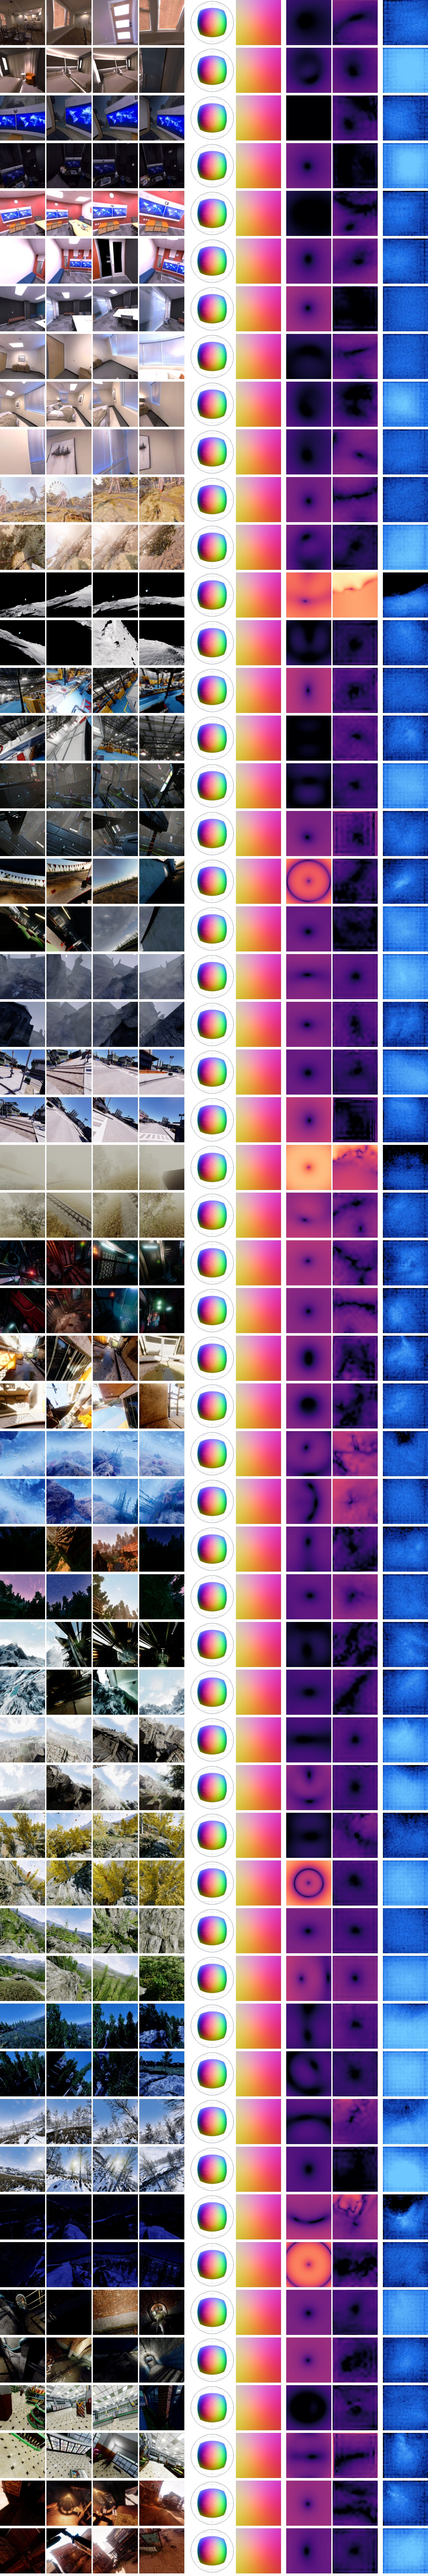
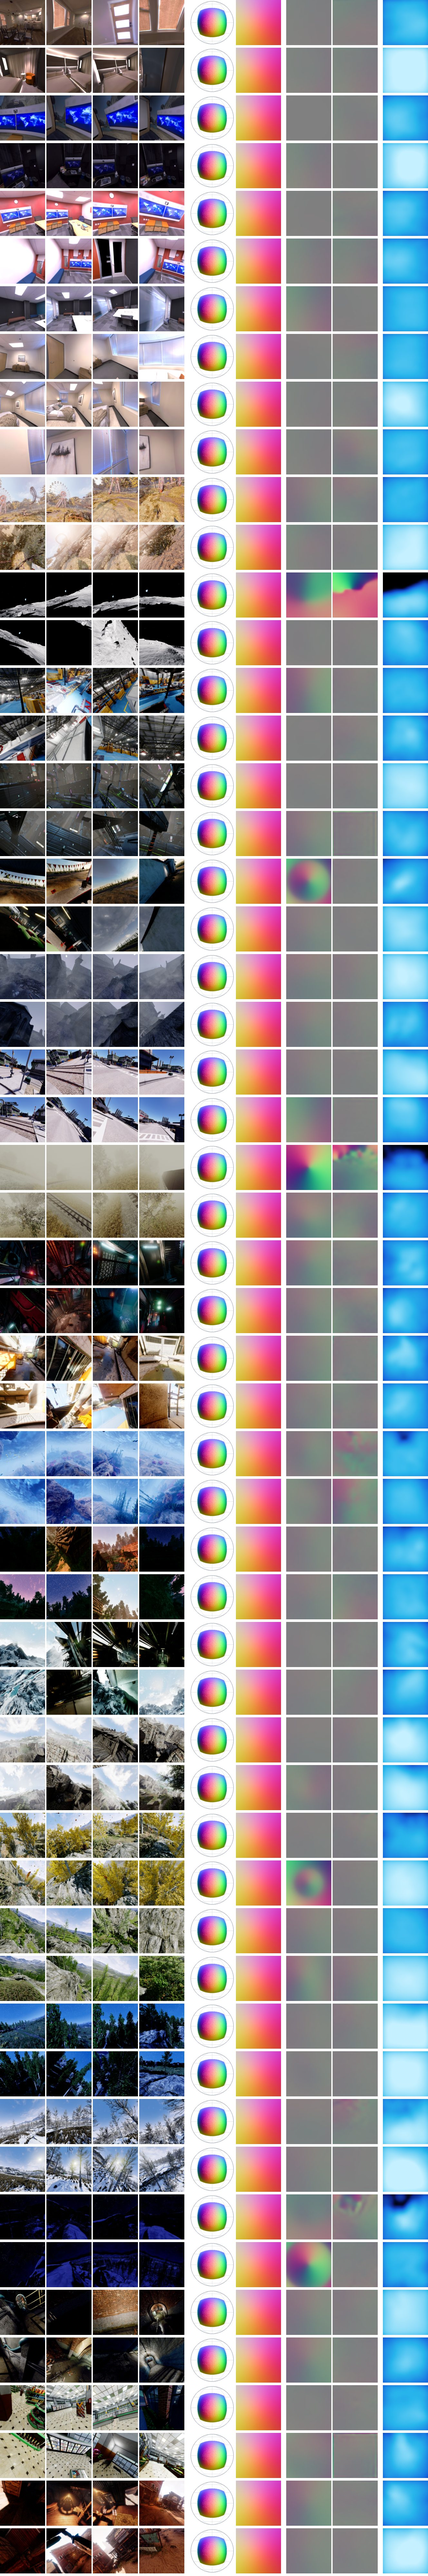
Results in the paper's style (error direction/magnitude wheel, effective support) and sort options
- Error maps use the paper's visualization (hue: direction, saturation:
  magnitude) and the support column shows effective support, with the paper's
  legend; the separate magnitude/direction toggle is gone.
- Explorer can sort by sequence name, RayCal error, best-baseline error or the
  improvement over the best baseline.

Changed region(s): [[0.6483, 0.0, 1.0, 1.0]]

diff --git a/index.html b/index.html
@@ -60,25 +60,29 @@
 
   <section id="explorer">
     <h2>Results Explorer</h2>
-    <p class="lede">Every sequence of the benchmark, with the same results as the paper's tables. Each row shows four input frames, the ground-truth ray sphere and ray map, the angular error of the best baseline on that sequence and of RayCal (after one global rotation), and RayCal's support map.</p>
+    <p class="lede">Every sequence of the benchmark, with the same results as the paper's tables. Each row shows four input frames, the ground-truth ray sphere and ray map, the angular error of the best baseline on that sequence and of RayCal (after one global rotation), and RayCal's effective support.</p>
     <div class="controls" role="group" aria-label="Explorer controls">
       <div class="seg" role="tablist" aria-label="Benchmark">
         <button role="tab" data-kind="main" aria-selected="true">Main benchmark</button>
         <button role="tab" data-kind="dist" aria-selected="false">Distortion study</button>
       </div>
       <label>Set <select id="group"></select></label>
-      <label>Error <select id="style"><option value="mag">Magnitude</option><option value="dir">Direction</option></select></label>
+      <label>Sort <select id="sort">
+        <option value="name">Sequence name</option>
+        <option value="ours-asc">RayCal error, low to high</option>
+        <option value="ours-desc">RayCal error, high to low</option>
+        <option value="base-desc">Best baseline error, high to low</option>
+        <option value="gain-desc">Improvement over best baseline</option>
+      </select></label>
       <label class="grow">Find <input id="find" type="search" placeholder="sequence name" autocomplete="off"></label>
       <span id="count" class="count" aria-live="polite"></span>
     </div>
     <div class="legend">
-      <span class="key"><span class="ramp mag"></span><span class="mono">0.01&deg; &hellip; 10&deg;</span> angular error (log)</span>
-      <span class="key dirkey" hidden><img src="assets/results/error-legend.png" alt="Error direction legend" width="40" height="40"> error direction (hue) and size</span>
-      <span class="key"><span class="ramp sup"></span> support: observations retained per 16&times;16-pixel cell (log)</span>
-      <span class="key"><span class="sw miss"></span> outside the valid image or no estimate</span>
+      <span class="key"><img src="assets/figures/qualitative-legend.jpg" alt="Legend: error wheel (hue is the error direction, saturation its magnitude, rings at 0.25, 1, 3 and 10 degrees) and effective support bar (0 to at least 1000)" height="70"></span>
+      <span class="key">Error: hue gives the direction, saturation the magnitude (rings at 0.25&deg;, 1&deg;, 3&deg;, 10&deg;). Support: effective support, observations per control point (log).</span>
     </div>
     <div class="colhead" aria-hidden="true">
-      <span style="flex:4">Input frames</span><span style="flex:2">Ground truth (sphere, map)</span><span style="flex:2">Angular error: best baseline, RayCal</span><span style="flex:1">RayCal support</span>
+      <span style="flex:4">Input frames</span><span style="flex:2">Ground truth (sphere, map)</span><span style="flex:2">Angular error: best baseline, RayCal</span><span style="flex:1">RayCal effective support</span>
     </div>
     <div id="rows" class="rows"></div>
     <p id="more" class="more" hidden><button id="showmore" class="btn">Show more</button></p>

diff --git a/assets/js/explorer.js b/assets/js/explorer.js
@@ -1,4 +1,4 @@
-// Results explorer: one JPEG sprite per sequence group (assets/results/<group>.jpg, -dir.jpg for the direction style)
+// Results explorer: one JPEG sprite per sequence group (assets/results/<group>.jpg, the paper's error and support style)
 // and assets/results/meta.json with each row's offset and scores. Rows are drawn as scaled background windows.
 (function () {
   'use strict';
@@ -6,12 +6,11 @@
   const PAGE = 40;            // rows rendered per batch
   const GAP = 4, EXTRA = 3 * GAP, N_EXTRA = 3;   // panel gaps used by tools/build_results.py
   const groupSel = document.getElementById('group');
-  const styleSel = document.getElementById('style');
+  const sortSel = document.getElementById('sort');
   const find = document.getElementById('find');
   const rowsEl = document.getElementById('rows');
   const countEl = document.getElementById('count');
   const moreEl = document.getElementById('more');
-  const dirKey = document.querySelector('.dirkey');
   let meta = [], kind = 'main', shown = 0, current = [];
 
   const fmt = v => (v === null || v === undefined || isNaN(v)) ? '–' : (v >= 10 ? v.toFixed(1) : v >= 1 ? v.toFixed(2) : v.toFixed(3));
@@ -47,7 +46,7 @@
       const wt = stripWidth(r.widths), ph = g.ph;
       s.className = 'strip';
       s.style.aspectRatio = `${wt} / ${ph}`;
-      const file = BASE + g.id + (styleSel.value === 'dir' ? '-dir' : '') + '.jpg';
+      const file = BASE + g.id + '.jpg';
       s.style.backgroundImage = `url("${file}")`;
       s.style.backgroundSize = `${(g.width / wt) * 100}% auto`;
       const span = g.height - ph;
@@ -59,12 +58,28 @@
     return d;
   }
 
+  // Missing scores sort last; the improvement is the best baseline's Mean over ours (no baseline output counts as largest).
+  const ours = r => (r.ours && r.ours[0] != null) ? r.ours[0] : Infinity;
+  const base = r => (r.best && r.best[1] != null) ? r.best[1] : Infinity;
+  const gain = r => (ours(r) === Infinity) ? -Infinity : base(r) / ours(r);
+  function sortRows(rows) {
+    const by = {
+      'name': (a, b) => a.label.localeCompare(b.label),
+      'ours-asc': (a, b) => ours(a) - ours(b),
+      'ours-desc': (a, b) => (ours(b) === Infinity ? -1 : ours(a) === Infinity ? 1 : ours(b) - ours(a)),
+      'base-desc': (a, b) => base(b) - base(a),
+      'gain-desc': (a, b) => gain(b) - gain(a),
+    }[sortSel.value];
+    rows.sort((a, b) => by(a, b) || a.label.localeCompare(b.label));
+  }
+
   function render(reset) {
     const g = meta.find(x => x.id === groupSel.value);
     if (!g) return;
     if (reset) {
       const q = find.value.trim().toLowerCase();
       current = g.rows.filter(r => !q || r.label.toLowerCase().includes(q));
+      sortRows(current);
       rowsEl.innerHTML = ''; shown = 0;
     }
     const next = current.slice(shown, shown + PAGE);
@@ -80,7 +95,7 @@
     kind = b.dataset.kind; fillGroups(); render(true);
   }));
   groupSel.addEventListener('change', () => render(true));
-  styleSel.addEventListener('change', () => { dirKey.hidden = styleSel.value !== 'dir'; render(true); });
+  sortSel.addEventListener('change', () => render(true));
   find.addEventListener('input', () => render(true));
   document.getElementById('showmore').addEventListener('click', () => render(false));
 

diff --git a/tools/build_results.py b/tools/build_results.py
@@ -8,6 +8,7 @@ from PIL import Image
 sys.path.insert(0, os.path.join(os.environ['RAYCAL_ROOT'], 'code/Spherical-Calibration-combined/src'))  # RAYCAL_ROOT: local data root
 from spherical_calibration.visualization.bearing_error import bearing_error_rgb, bearing_error_legend, spherical_bearing_error
 from spherical_calibration.visualization._render.sphere import sphere_view
+import eff_support as S   # effective support (soft observations per control), as in the paper
 ERR = dict(curve='asinh', soft_scale_deg=0.1, full_scale_deg=10.0)
 G = os.environ['RAYCAL_ROOT']; T3 = f'{G}/psc-ocean/init-study/table3'; U5 = f'{G}/migcheck/formal/scale/U5R'  # reported runs
 F = f'{G}/migcheck/formal'
@@ -173,7 +174,7 @@ def render(case, root, kind):
         out['best'] = [NAMES[best[0]], best[1]['Mean_deg'], best[1]['P90_deg']]
     gn = np.where(sup[..., None], g / np.maximum(np.linalg.norm(g, axis=-1, keepdims=True), 1e-12), 0.0)
     none = np.full((H, W, 3), 128, np.uint8)
-    A = {'frames': frames, 'gt_sphere': sphere_rgb(gn, sup, H, W), 'gt_map': dir_rgb(gn, sup), 'support': sup_rgb(cnt, sup),
+    A = {'frames': frames, 'gt_sphere': sphere_rgb(gn, sup, H, W), 'gt_map': dir_rgb(gn, sup), 'support': eff_rgb(S.effective(cnt, W == 2 * H)[0], sup),
          'our_sphere': sphere_rgb(pa, vo, H, W), 'our_map': dir_rgb(pa, vo),  # ours after the scoring rotation
          'mag': (err_rgb(np.where(eb[1], ang(eb[0], g), 180.0), sup) if eb is not None else none, err_rgb(eo, sup)),
          'dir': (bear_rgb(eb[0], gn, eb[1]) if eb is not None else none, bear_rgb(pa, gn, vo)),
@@ -185,14 +186,14 @@ def job(item):
     try:
         A, out = render(case, root, kind); out['label'] = label
         strips = []
-        for style in ('mag', 'dir', 'sch'):
+        for style in ('sch',):   # the paper's error visualization (direction hue, magnitude saturation)
             panels = [panel(f) for f in A['frames']] + [panel(A['gt_sphere']), panel(A['gt_map']), panel(A[style][0]), panel(A[style][1]), panel(A['support'])]
             gap = 4; Wt = sum(q.width for q in panels) + gap * (len(panels) - 1) + 3 * gap * len(ORDER_GAPS)
             strip = Image.new('RGB', (Wt, PH), (255, 255, 255)); x = 0
             for i, q in enumerate(panels):
                 strip.paste(q, (x, 0)); x += q.width + gap + (3 * gap if i in ORDER_GAPS else 0)
             strips.append(strip)
-            if style == 'mag': out['widths'] = [q.width for q in panels]
+            out['widths'] = [q.width for q in panels]
         return gi, out, strips
     except Exception as ex:  # noqa: BLE001
         return gi, {'case': case, 'label': label, 'error': repr(ex)[:200]}, None
@@ -209,14 +210,12 @@ if __name__ == '__main__':
         res = [(o, s) for g2, o, s in results if g2 == gi]
         if not res: continue
         W = max([s[0].width for _, s in res if s is not None] + [10]); Hs = (PH + 8) * len(res)
-        sprites = [Image.new('RGB', (W, Hs), (255, 255, 255)) for _ in range(3)]; rows = []
+        sprites = [Image.new('RGB', (W, Hs), (255, 255, 255))]; rows = []
         for i, (o, s) in enumerate(res):
             if s is not None:
-                for k in range(3): sprites[k].paste(s[k], (0, i * (PH + 8)))
+                sprites[0].paste(s[0], (0, i * (PH + 8)))
             o['y'] = i * (PH + 8); rows.append(o)
         sprites[0].save(f'{OUT}/{gid}.jpg', quality=82, optimize=True)
-        sprites[1].save(f'{OUT}/{gid}-dir.jpg', quality=82, optimize=True)
         meta.append({'id': gid, 'title': title, 'kind': kind, 'width': W, 'height': Hs, 'ph': PH, 'rows': rows})
     json.dump(meta, open(f'{OUT}/meta.json', 'w'))
-    Image.fromarray(bearing_error_legend(size=220, **ERR)).save(f'{OUT}/error-legend.png')
     print('done', sum(len(m['rows']) for m in meta), 'rows', sum(1 for m in meta for r in m['rows'] if 'error' in r), 'errors')

diff --git a/tools/eff_support.py b/tools/eff_support.py
@@ -1,0 +1,18 @@
+"""Unnormalized effective support (soft observations per control) from a result artifact, by the
+solver's own construction: E_c = sum over retained observations of the cubic B-spline weights,
+evaluated back at every pixel by the same basis. Uses the stored per-pixel observation counts."""
+import os, sys, numpy as np, torch
+sys.path.insert(0, os.path.join(os.environ['RAYCAL_ROOT'], 'code/Spherical-Calibration-combined/src'))  # RAYCAL_ROOT: local data root
+from spherical_calibration.ray_fields.sparse_bspline import cubic_bspline_stencil
+
+def effective(count, periodic, shape=(16, 16)):
+    H, W = count.shape
+    yy, xx = np.mgrid[0:H, 0:W].astype(np.float64)
+    uv = torch.from_numpy(np.stack((2 * xx.ravel() / (W - 1) - 1, 2 * yy.ravel() / (H - 1) - 1), -1))
+    kw = dict(boundary_mode='periodic_x', period=2.0 * W / (W - 1)) if periodic else dict(boundary_mode='replicate')
+    idx, w = cubic_bspline_stencil(uv, *shape, **kw)
+    c = torch.from_numpy(count.ravel().astype(np.float64))
+    E = torch.zeros(shape[0] * shape[1], dtype=torch.float64)
+    E.scatter_add_(0, idx.reshape(-1), (w * c[:, None]).reshape(-1))
+    eff = (w * E[idx]).sum(-1).clamp_min(0).numpy().reshape(H, W)
+    return eff, E.numpy()
